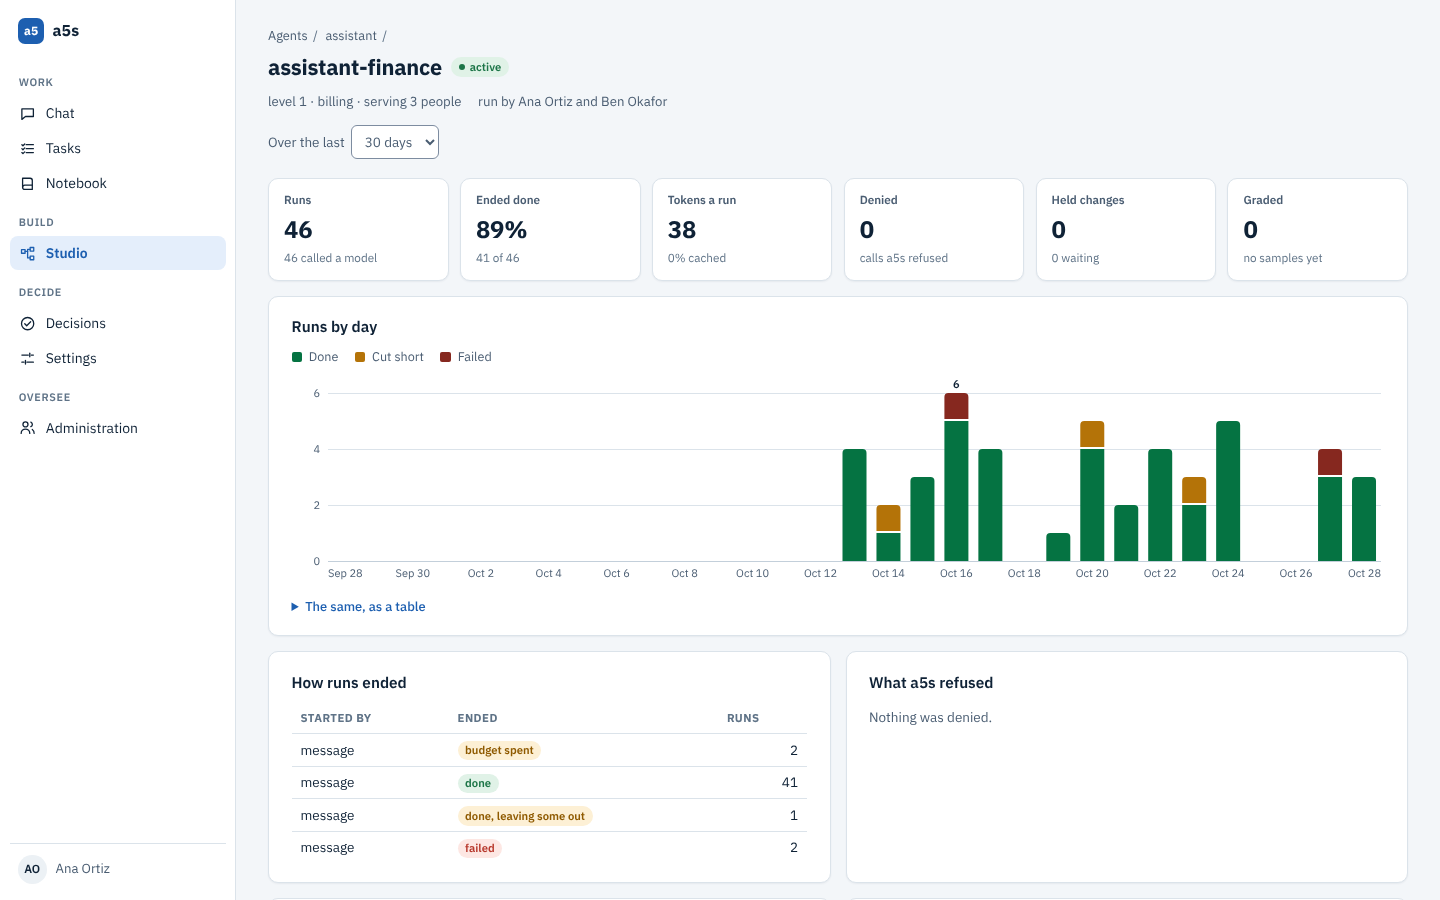
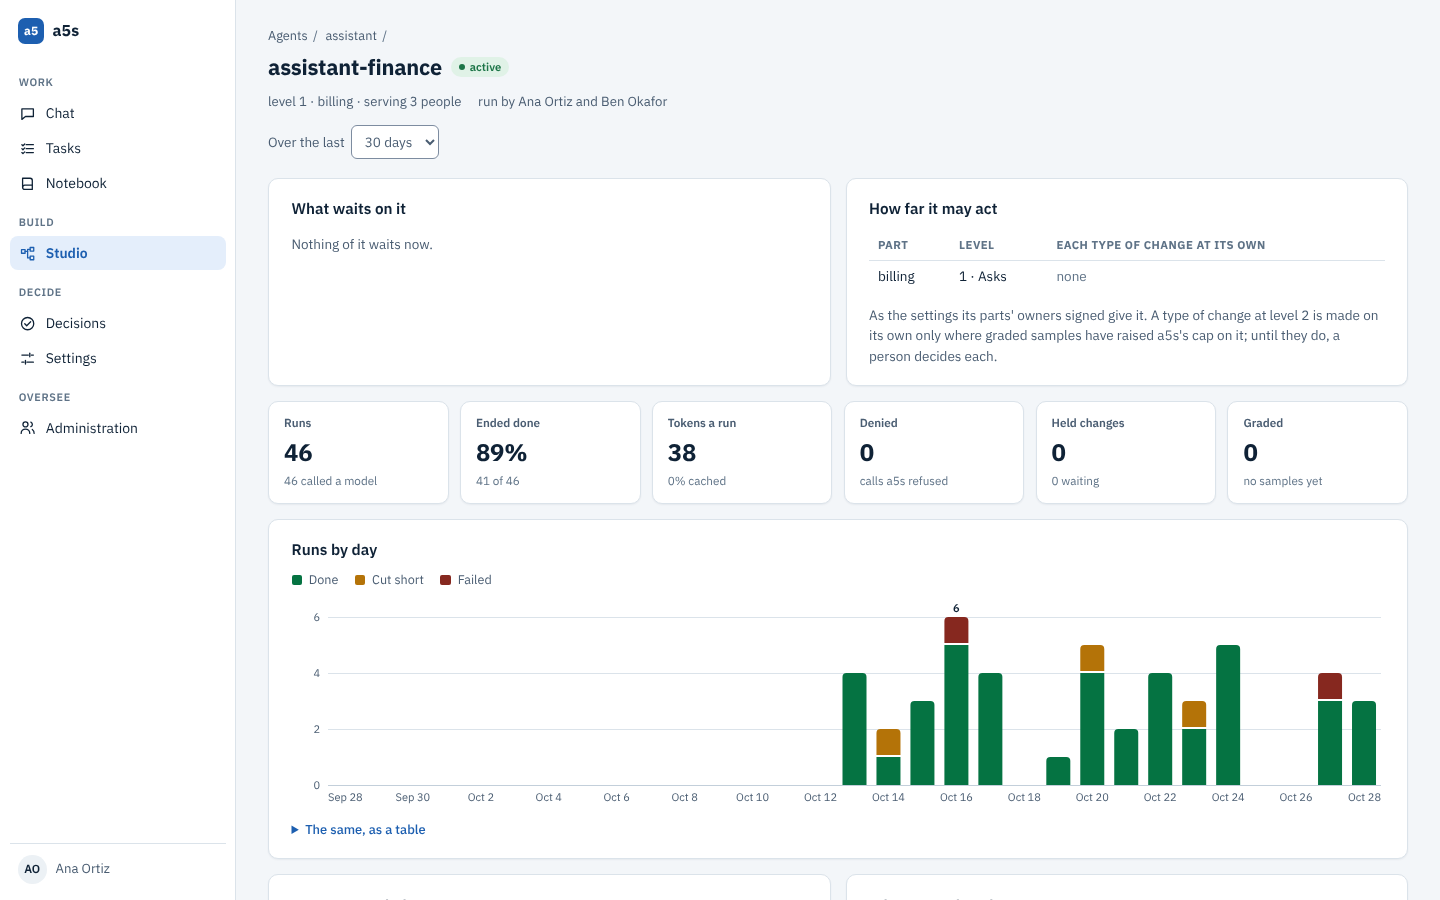
An instance's page says what of it waits, and how far it may act (INS-1)
The studio's plan has a third step, instances, which begins here. Each
instance's page now leads with two cards:

- What waits on it, each where it's done, as the home lists what waits
  for someone: the changes it asked for, for the viewer's decision, on
  the deciding page, or for someone else's; its samples, for the
  viewer's grade, on the grading page, or for other graders', outside
  the team that built it; and its notebook, for those who keep it. Each
  says how many and since when, and nothing of what they are, which
  someone sees where they may act on it. Only those who may watch the
  instance see it (GET /studio/api/instances/<id>/waiting).
- How far it may act: its level in each part, and each type of change
  its settings set a level of its own for, as its parts' owners signed
  them, with what level 2 needs before it counts.

The notebook's rules for who keeps an instance's notes and who may read
one, and the home's list of what waits, are shared rather than copied.
a5s's cap isn't shown: the channels app can't check the core's seal on
it, so docs/studio.md no longer says the grading page shows it, which it
never did; `a5s status` shows the caps raised. The doc's status says
step 2 is built, as it has been for a while.

tests/test_studio_instance_waits.py covers each kind of wait, for whom,
a grader who also watches the instance, and those who may not watch it;
the instance's browser test checks both cards, whose picture is new.
[…]

diff --git a/studio/src/pages/Instance.tsx b/studio/src/pages/Instance.tsx
@@ -1,12 +1,57 @@
-// An instance's dashboard: how it's doing over a period, from the measures counted for it alone,
-// and its runs, a page at a time, those whose every record the viewer may see.
+// An instance's page: what of it waits, and where each is done; how far it may act in each
+// part; how it's doing over a period, from the measures counted for it alone; and its runs, a
+// page at a time, those whose every record the viewer may see.
 
 import { useState } from "react";
-import { type Catalogue, type Figures, get, type RunLine, type RunsPage } from "../api";
+import { type Catalogue, type Figures, get, type Instance, type InstanceWaits, type RunLine,
+         type RunsPage } from "../api";
+import { rung } from "../design";
 import { Link } from "../router";
 import { RunsByDay } from "../RunsByDay";
 import { aboutInstance, OutcomeBadge, PageHead, people, plural, runners, share, StatusBadge, useLoad,
-         Waiting, when } from "../ui";
+         Waiting, WaitList, when } from "../ui";
+
+/** What of it waits: the changes it asked for, its samples for a grade, and its notebook, each
+ * where it's done, for the viewer or for others. */
+function Waits({ instance }: { instance: string }) {
+  const { data, error } = useLoad(() => get<InstanceWaits>(
+    `/studio/api/instances/${encodeURIComponent(instance)}/waiting`), [instance]);
+  return (
+    <section className="card" id="instance-waiting">
+      <h2>What waits on it</h2>
+      {data ? <WaitList waiting={data.waiting} none="Nothing of it waits now." /> : <Waiting error={error} />}
+    </section>
+  );
+}
+
+/** How far it may act in each part, and each type of change its settings set a level for. */
+function Reach({ inst }: { inst: Instance }) {
+  const parts = Object.entries(inst.parts as Record<string, number>);
+  const acts = inst.actions as Record<string, Record<string, number>>;
+  return (
+    <section className="card" id="reach">
+      <h2>How far it may act</h2>
+      {parts.length === 0 ? <p>Level {inst.level}, {rung(inst.level)}, in no part.</p> : (
+        <table className="grid-table compact">
+          <thead><tr><th>Part</th><th>Level</th><th>Each type of change at its own</th></tr></thead>
+          <tbody>{parts.map(([part, level]) => {
+            const own = Object.entries(acts[part] ?? {});
+            return (
+              <tr key={part}>
+                <td>{part}</td>
+                <td>{level} · {rung(level)}</td>
+                <td>{own.length === 0 ? <span className="faint">none</span> : own.map(([action, at]) => (
+                  <div key={action}><span className="mono">{action}</span> at {at} · {rung(at)}</div>
+                ))}</td>
+              </tr>
+            );
+          })}</tbody>
+        </table>
+      )}
+      <p className="note">As the settings its parts' owners signed give it. A type of change at level 2 is made on its own only where graded samples have raised a5s's cap on it; until they do, a person decides each.</p>
+    </section>
+  );
+}
 
 function Tile({ label, value, detail }: { label: string; value: string; detail?: string }) {
   return (
@@ -157,6 +202,10 @@ export function InstancePage({ id }: { id: string }) {
           </select>
         </label>
       </PageHead>
+      <div className="two-up">
+        <Waits instance={id} />
+        {inst && <Reach inst={inst} />}
+      </div>
       {!figures.data && <Waiting error={figures.error} />}
       {figures.data && (
         <div className={figures.stale ? "stale" : undefined}>

diff --git a/studio/src/ui.tsx b/studio/src/ui.tsx
@@ -2,7 +2,7 @@
 // the badges that say what a tool does, how something stands, and how a run ended.
 
 import { type DependencyList, type ReactNode, useEffect, useState } from "react";
-import type { AgentUses, Instance, Tool } from "./api";
+import type { AgentUses, Instance, Tool, Waiting as Wait } from "./api";
 import { Link, type Route } from "./router";
 
 /** What a page shows, once loaded; while it loads again, as for another period, what it
@@ -132,4 +132,20 @@ export function aboutInstance(inst: Instance): string {
 
 export function runners(inst: Instance): string {
   return [inst.owner, inst.deputy].filter(Boolean).join(" and ") || "nobody";
+}
+
+/** What waits for someone, each where they do it, on its own page or at the command line,
+ * with why it's theirs and since when, as the home and an instance's page list it. */
+export function WaitList({ waiting, none }: { waiting: Wait[]; none: string }) {
+  if (waiting.length === 0) return <p className="note">{none}</p>;
+  return (
+    <ul className="waits">{waiting.map((w) => (
+      <li key={`${w.kind}:${w.what}`} className={`wait wait-${w.kind}`}>
+        {w.go ? <a href={w.go}>{w.what}</a> : <span>{w.what}</span>}
+        {w.since && <span className="faint"> · since {when(w.since)}</span>}
+        {w.how && <span className="faint"> · <span className="mono">{w.how}</span></span>}
+        {w.why.length > 0 && <ul className="plain faint">{w.why.map((why) => <li key={why}>{why}</li>)}</ul>}
+      </li>
+    ))}</ul>
+  );
 }

diff --git a/studio/src/pages/Home.tsx b/studio/src/pages/Home.tsx
@@ -4,7 +4,7 @@
 
 import { get, type Home } from "../api";
 import { Link } from "../router";
-import { PageHead, useLoad, Waiting, when } from "../ui";
+import { PageHead, useLoad, Waiting, WaitList, when } from "../ui";
 
 export function HomePage() {
   const { data, error } = useLoad(() => get<Home>("/studio/api/home"), []);
@@ -17,17 +17,7 @@ export function HomePage() {
         <>
           <section className="card" id="waiting">
             <h2>Waiting on you</h2>
-            {data.waiting.length === 0
-              ? <p className="note">Nothing waits on you now.</p>
-              : (
-                <ul className="waits">{data.waiting.map((w) => (
-                  <li key={`${w.kind}:${w.what}`} className={`wait wait-${w.kind}`}>
-                    {w.go ? <a href={w.go}>{w.what}</a> : <span>{w.what}</span>}
-                    {w.how && <span className="faint"> · <span className="mono">{w.how}</span></span>}
-                    {w.why.length > 0 && <ul className="plain faint">{w.why.map((why) => <li key={why}>{why}</li>)}</ul>}
-                  </li>
-                ))}</ul>
-              )}
+            <WaitList waiting={data.waiting} none="Nothing waits on you now." />
           </section>
           {data.drafts.length > 0 && (
             <section className="card" id="my-drafts">

diff --git a/studio/src/design/index.ts b/studio/src/design/index.ts
@@ -1,7 +1,7 @@
 // a5s's design system, as the studio draws it (docs/design.md): its look is app.css's tokens and
 // classes, which every page shares; these are the pieces pages are made of.
 
-export { AgentFacts, ApprovalCard, AutonomyLadder, JourneyPath, RunTimeline, Traced } from "./agentic";
+export { AgentFacts, ApprovalCard, AutonomyLadder, JourneyPath, rung, RunTimeline, Traced } from "./agentic";
 export type { Change, FactsPart, Stage, Step } from "./agentic";
 export { Badge, Confirm, Hint } from "./controls";
 export type { Tone } from "./controls";

diff --git a/studio/src/design/agentic.tsx b/studio/src/design/agentic.tsx
@@ -110,6 +110,11 @@ const STEPS = [
   { name: "Acts", about: "One type of change on its own, within limits, sampled and graded." },
 ];
 
+/** A level's rung in words: Suggests, Asks or Acts. */
+export function rung(level: number): string {
+  return STEPS[Math.max(0, Math.min(level, STEPS.length - 1))].name;
+}
+
 /** Autonomy is earned: the level an agent works at, those its release allows beyond it, and
  * how far it has come toward the next. */
 export function AutonomyLadder({ level, max, toward }: {

diff --git a/studio/src/api.gen.ts b/studio/src/api.gen.ts
@@ -363,6 +363,11 @@ export type Instance = {
   asks: string[];
 };
 
+// What of one instance waits, for someone who may watch it, each where it's done.
+export type InstanceWaits = {
+  waiting: Waiting[];
+};
+
 // How far an agent's judge agrees with people, on the samples both graded (core/judging.py).
 export type Judge = {
   both: number;
@@ -729,6 +734,7 @@ export type Waiting = {
   why: string[];
   go: string | null;
   how?: string;
+  since?: string;
 };
 
 export type You = {

diff --git a/studio/src/api.ts b/studio/src/api.ts
@@ -81,6 +81,7 @@ export type Catalogue = gen.Catalogue;
 // Someone's home and roles (core/home.py)
 export type Home = gen.Home;
 export type Waiting = gen.Waiting;
+export type InstanceWaits = gen.InstanceWaits;  // what of one instance waits, for its viewer
 export type You = gen.You;
 export type Role = gen.Role;
 

diff --git a/tests/test_studio_instance_waits.py b/tests/test_studio_instance_waits.py
@@ -1,0 +1,85 @@
+"""What of an instance waits, on its page in the studio (core/home.py's of_instance,
+docs/studio.md): the changes it asked for, for the viewer's decision or someone else's; its
+samples, for the viewer's grade or other graders'; and its notebook, for those who keep it.
+Each where it's done, with the oldest's time, and counts alone: what each is, someone sees
+where they may act on it. Only those who may watch the instance see any of it."""
+
+from __future__ import annotations
+
+from a5s import db
+from test_group_roles import MAP, OWNERS, mapped
+from test_proposals import asked, held
+from test_samples import release
+from test_studio_home import api
+
+
+def sample(stack) -> None:
+    """A sample of the assistant's work in billing, waiting for a grade."""
+    with db.transaction(stack.admin) as conn:
+        conn.execute(
+            "insert into samples (scenario, kind, run_id, instance_id, release, definition, "
+            "part, action, said, records, acts_for, drawn_at) values ('sample', 'proposal', "
+            "gen_random_uuid(), 'assistant-finance', %s, 'assistant', 'billing', "
+            "'change-due-date', 'a change', '{}', '{ben}', now())", (release(stack),))
+
+
+def note(stack, source: str = "Q-1002") -> None:
+    """A note the assistant kept in billing, from one record."""
+    with db.transaction(stack.admin) as conn:
+        conn.execute("insert into notebook (instance_id, agent, text, sources, read_records, "
+                     "written_run) values ('assistant-finance', 'assistant', "
+                     "'Northwind pays late in December', %s, %s, gen_random_uuid())",
+                     ([source], [source]))
+
+
+def waits(url: str, provider, person: str, *groups: str) -> dict[str, dict]:
+    found = api(url, provider, person, "instances/assistant-finance/waiting", *groups)
+    found.raise_for_status()
+    return {w["kind"]: w for w in found.json()["waiting"]}
+
+
+def test_it_says_what_of_an_instance_waits_and_for_whom(stack, approving, provider):
+    asked(stack)  # Ben asks for a change, which waits for Ana, who owns billing
+    [change] = held(stack)
+    sample(stack)
+    note(stack)
+    ana = waits(approving, provider, "ana")
+    assert set(ana) == {"decide", "graded", "notebook"}
+    assert (ana["decide"]["what"], ana["decide"]["go"]) == (
+        "1 change it asked for waits for your decision", "/decide/")
+    assert ana["decide"]["since"].startswith(change["proposed_at"].isoformat()[:19])
+    assert ana["graded"] == {
+        "kind": "graded", "go": None, "why": [], "since": ana["graded"]["since"],
+        "what": "1 sample of its work waits for a grade, from graders outside the team that "
+                "built it"}
+    assert (ana["notebook"]["what"], ana["notebook"]["go"]) == (
+        "1 note it keeps from what it learned, which you may read and remove", "/notebook/")
+    # Ben asked for it, so it's never his to decide; he runs it, as its deputy, so he keeps
+    # its notebook
+    ben = waits(approving, provider, "ben")
+    assert ben["held"]["what"] == ("1 change it asked for waits for someone else's decision, as "
+                                   "its parts' owners and delegates decide them")
+    assert ben["held"]["go"] is None and "decide" not in ben
+    assert "notebook" in ben
+    # Priya owns the assistant, so she keeps its notebook, but sees no note whose records
+    # she may not see
+    priya = waits(approving, provider, "priya")
+    assert set(priya) == {"held", "graded"}
+    for outside in ("chen", "dana"):  # nobody else may watch it, nor any instance
+        assert api(approving, provider, outside, "instances/assistant-finance/waiting").status_code == 403
+
+
+def test_a_grader_who_watches_it_is_sent_to_grade_its_samples(stack, approving, provider):
+    mapped(stack, approving, provider, {**MAP, OWNERS: ["part-owner:billing"]})
+    sample(stack)
+    # Dana grades, outside the team that built it, and, by her group, owns billing beside Ana
+    dana = waits(approving, provider, "dana", OWNERS)
+    assert (dana["grade"]["what"], dana["grade"]["go"]) == (
+        "1 sample of its work waits for your grade", "/grade/")
+    assert "graded" not in dana  # none waits for anyone else
+    assert set(waits(approving, provider, "ana")) == {"graded"}  # Ana runs it: never hers
+
+
+def test_nothing_waits_on_a_quiet_instance(stack, approving, provider):
+    assert waits(approving, provider, "ana") == {}
+    assert api(approving, provider, "ana", "instances/nobodys/waiting").status_code == 404

diff --git a/src/a5s/core/home.py b/src/a5s/core/home.py
@@ -26,6 +26,7 @@ from a5s.core import (
     asks,
     audit,
     memberships,
+    notebook,
     proposals,
     registry,
     releases,
@@ -137,4 +138,55 @@ def waiting(conn: db.Connection, gw: Any, person: Person) -> list[dict]:
         found.append({"kind": "tasks", "what": f"{tasks} of your tasks "
                       f"{'waits' if tasks == 1 else 'wait'} for you, blocked or asked for",
                       "why": [], "go": "/tasks/"})
+    return found
+
+
+def _changes(n: int) -> str:
+    return f"{n} {'change' if n == 1 else 'changes'} it asked for {'waits' if n == 1 else 'wait'}"
+
+
+def of_instance(conn: db.Connection, gw: Any, person: Person, inst: dict) -> list[dict]:
+    """What of one instance waits, for someone who may watch it, each where it's done, as the
+    home says: the changes it asked for that wait for their decision, and for others'; its
+    samples that wait for their grade, and for others'; and its notebook, if they keep it.
+    Counts alone, and the oldest's time: what each is, they see where they may act on it."""
+    found: list[dict] = []
+    scenario = gw.scenario
+    held = conn.execute("select records, acts_for, proposed_at from proposals where status = "
+                        "'waiting' and instance_id = %s order by proposed_at, id",
+                        (inst["id"],)).fetchall()
+    mine = [p for p in held if proposals.may_decide(scenario, p, person.id)]  # the directory now
+    others = [p for p in held if p not in mine]
+    if mine:
+        found.append({"kind": "decide", "what": f"{_changes(len(mine))} for your decision",
+                      "why": [], "go": "/decide/", "since": mine[0]["proposed_at"]})
+    if others:
+        found.append({"kind": "held", "what": f"{_changes(len(others))} for someone else's "
+                      "decision, as its parts' owners and delegates decide them", "why": [],
+                      "go": None, "since": others[0]["proposed_at"]})
+    graded = samples.gradeable(conn, scenario, person, MOST + 1, inst["id"]) \
+        if samples.GRADER in person.roles else []
+    if graded:
+        count = f"{MOST} or more" if len(graded) > MOST else str(len(graded))
+        found.append({"kind": "grade", "what": f"{count} {'sample' if len(graded) == 1 else 'samples'} "
+                      f"of its work {'waits' if len(graded) == 1 else 'wait'} for your grade",
+                      "why": [], "go": "/grade/", "since": graded[0]["drawn_at"]})
+    theirs = {g["id"] for g in graded}
+    rest = [r for r in conn.execute("select id, drawn_at from samples where scenario = %s and "
+                                    "instance_id = %s and grade is null and lapsed_at is null "
+                                    "order by id", (scenario.name, inst["id"]))
+            if r["id"] not in theirs]
+    if rest and len(graded) <= MOST:  # other graders, outside the team that built it, grade them
+        found.append({"kind": "graded", "what": f"{len(rest)} {'sample' if len(rest) == 1 else 'samples'} "
+                      f"of its work {'waits' if len(rest) == 1 else 'wait'} for a grade, from "
+                      "graders outside the team that built it", "why": [], "go": None,
+                      "since": min(r["drawn_at"] for r in rest)})
+    if notebook.keeps(person, inst):
+        notes = [r for r in conn.execute("select read_records, sources from notebook where "
+                                         "instance_id = %s", (inst["id"],))
+                 if notebook.readable(scenario, person.id, r)]
+        if notes:
+            found.append({"kind": "notebook", "what": f"{len(notes)} "
+                          f"{'note' if len(notes) == 1 else 'notes'} it keeps from what it "
+                          "learned, which you may read and remove", "why": [], "go": "/notebook/"})
     return found

diff --git a/src/a5s/core/samples.py b/src/a5s/core/samples.py
@@ -315,9 +315,9 @@ def may_grade(scenario: Scenario, sample: dict, person: Person,
 
 
 def gradeable(conn: db.Connection, scenario: Scenario, person: Person,
-              most: int = 20) -> list[dict]:
-    """The samples waiting for a grade that someone may grade, oldest first, up to `most`:
-    read in pages, leaving out in the query what it can."""
+              most: int = 20, instance: str | None = None) -> list[dict]:
+    """The samples waiting for a grade that someone may grade, oldest first, up to `most`, or
+    those of one instance: read in pages, leaving out in the query what it can."""
     minders = {r["id"]: (r["owner"], r["deputy"]) for r in conn.execute(
         "select id, owner, deputy from instances")}
     drafters: dict[str, frozenset[str]] = {}
@@ -327,8 +327,9 @@ def gradeable(conn: db.Connection, scenario: Scenario, person: Person,
         rows = conn.execute(
             "select * from samples where scenario = %s and grade is null and lapsed_at "
             "is null and id > %s and not (%s = any(acts_for)) and decided_by is distinct "
-            "from %s and not (%s = any(deciders)) order by id limit 200",
-            (scenario.name, after, person.id, person.id, person.id)).fetchall()
+            "from %s and not (%s = any(deciders)) and (%s::text is null or instance_id = %s) "
+            "order by id limit 200",
+            (scenario.name, after, person.id, person.id, person.id, instance, instance)).fetchall()
         if not rows:
             break
         after = rows[-1]["id"]

diff --git a/src/a5s/core/notebook_api.py b/src/a5s/core/notebook_api.py
@@ -19,11 +19,10 @@ Keeper = tuple[Person, list[dict]]  # who signed in, and the instances whose not
 def kept(gw: Any, person: Person) -> list[dict]:
     """The instances whose notebooks someone keeps: those of an agent they own, or that they
     run, as its owner or deputy."""
-    owns = {r.removeprefix("agent-owner:") for r in person.roles if r.startswith("agent-owner:")}
     with db.transaction(gw.url) as conn:
         return [i for i in conn.execute("select id, definition, owner, deputy, parts from instances "
                                         "where status <> 'retired' order by id")
-                if i["definition"] in owns or person.id in (i["owner"], i["deputy"])]
+                if notebook.keeps(person, i)]
 
 
 def named(instance: dict) -> str:
@@ -51,8 +50,7 @@ def router(gw: Any) -> APIRouter:
     api = APIRouter(dependencies=[Depends(available), Depends(keeping)])
 
     def may_see(person: Person, row: dict) -> bool:
-        """Whether someone may see a note: every record its run read, as it reached runs."""
-        return all(gw.scenario.sees(person.id, k) for k in row["read_records"] or row["sources"])
+        return notebook.readable(gw.scenario, person.id, row)
 
     @pages.get("/notebook/", include_in_schema=False)
     def notebook_page() -> Response:

diff --git a/src/a5s/core/studio_api.py b/src/a5s/core/studio_api.py
@@ -336,6 +336,14 @@ def router(gw: Any) -> APIRouter:
             except studio.UnknownZone as e:
                 raise HTTPException(400, str(e)) from e
 
+    @api.get("/studio/api/instances/{instance}/waiting", **shapes.answers(shapes.InstanceWaits))
+    def instance_waiting(instance: str, person: Annotated[Person, Depends(studying)]) -> dict:
+        """What of an instance waits, for someone who may watch it: the changes it asked for,
+        for their decision and others', its samples for their grade and others', and its
+        notebook, if they keep it, each where it's done (core/home.py)."""
+        with db.transaction(gw.url) as conn:
+            return {"waiting": homes.of_instance(conn, gw, person, watched(conn, person, instance))}
+
     @api.get("/studio/api/instances/{instance}/runs", **shapes.answers(shapes.RunsPage))
     def studio_runs(instance: str, person: Annotated[Person, Depends(studying)], before: str | None = None,
                     limit: int = studio.RUNS) -> dict:
